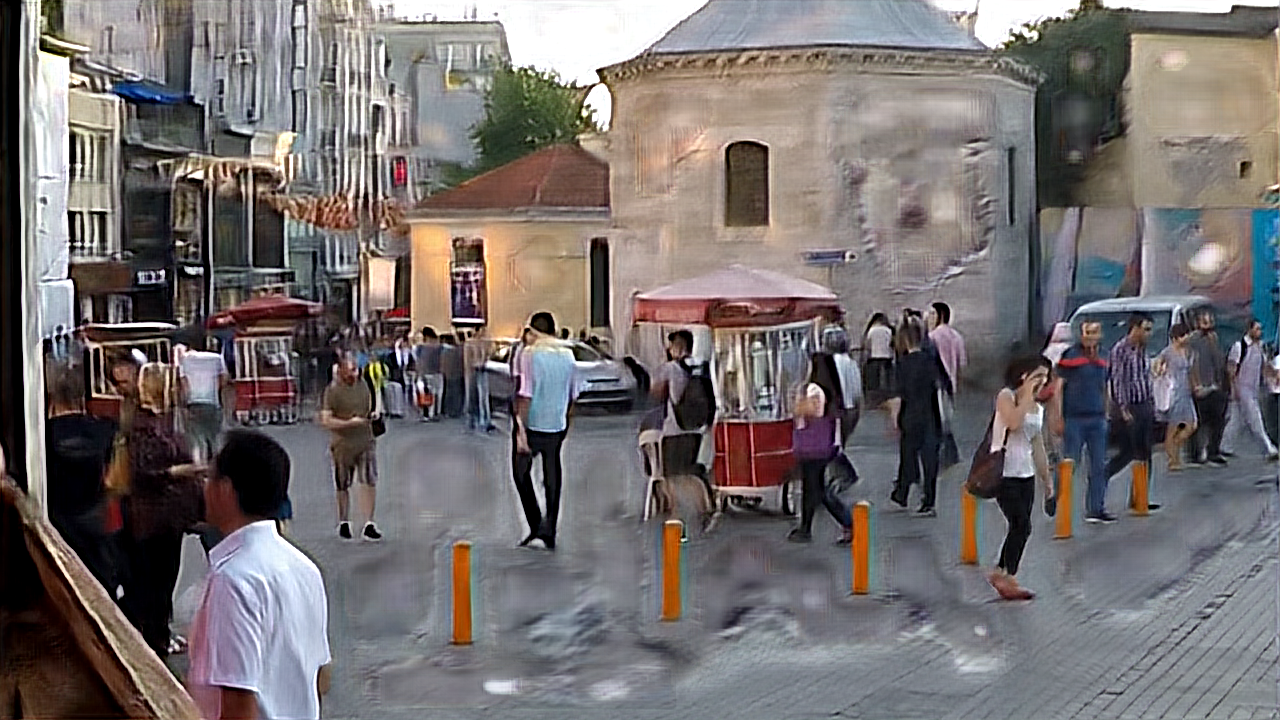
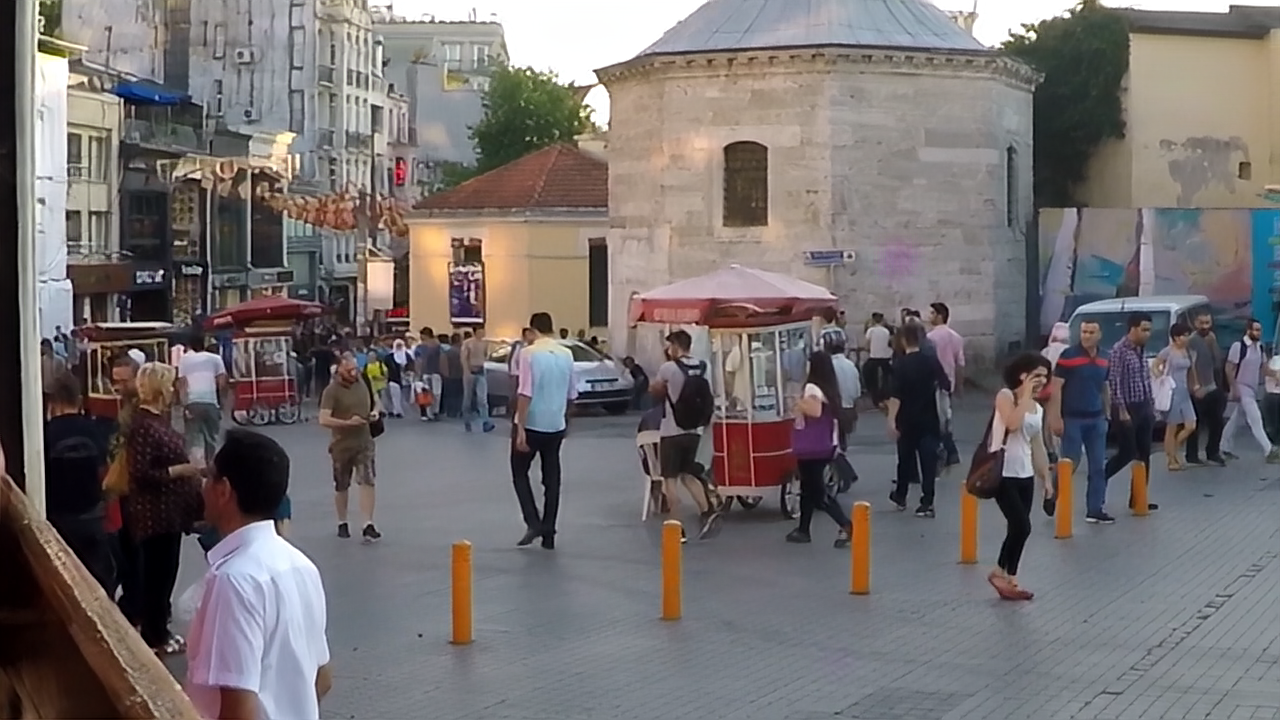
resolve BatchNorm2d train mode  export error for image generation

diff --git a/Debluring/DeblurGANv2/DeblurGANv2-master/torch2onnx.py b/Debluring/DeblurGANv2/DeblurGANv2-master/torch2onnx.py
@@ -18,12 +18,29 @@ from fire import Fire
 class InstanceNormAlternative(nn.Module):
     def __init__(self):
         super().__init__()
-        self.eps=1e-6
+        self.eps=1e-5
 
     def forward(self, inp: torch.Tensor) -> torch.Tensor:
         assert (len(inp.shape)==4), "InstanceNorm Shape Error!"
         desc = 1 / (inp.var(axis=[2, 3], keepdim=True, unbiased=False) + self.eps) ** 0.5
         retval = (inp - inp.mean(axis=[2, 3], keepdim=True)) * desc
+        return retval
+    
+class BatchNormAlternative(nn.Module):
+    def __init__(self, m: nn.BatchNorm2d):
+        super().__init__()
+        self.eps=1e-5
+        self.affine = m.affine
+        if self.affine:
+            self.gamma = m.weight.reshape(1,-1,1,1).clone()
+            self.beta = m.bias.reshape(1,-1,1,1).clone()
+
+    def forward(self, inp: torch.Tensor) -> torch.Tensor:
+        assert (len(inp.shape)==4), "BatchNorm Shape Error!"
+        desc = 1 / (inp.var(axis=[0, 2, 3], keepdim=True, unbiased=False) + self.eps) ** 0.5
+        retval = (inp - inp.mean(axis=[0, 2, 3], keepdim=True)) * desc
+        if self.affine:
+            retval = retval*self.gamma + self.beta
         return retval
     
 class Predictor:
@@ -55,6 +72,17 @@ class Predictor:
         for *parent, id in replace_list:
             model_g.get_submodule('.'.join(parent))[int(id)] = InstanceNormAlternative()
 
+        replace_list =[k.split('.') 
+                        for k, m in model_g.named_modules(remove_duplicate=False) 
+                        if isinstance(m, torch.nn.BatchNorm2d)]
+        for *parent, id in replace_list:
+            if not isinstance(getattr(model_g.get_submodule('.'.join(parent)), id), torch.nn.BatchNorm2d):
+                continue
+            if id.isdecimal():
+                model_g.get_submodule('.'.join(parent))[int(id)] = BatchNormAlternative(model_g.get_submodule('.'.join(parent))[int(id)])
+            else:
+                setattr(model_g.get_submodule('.'.join(parent)), id, BatchNormAlternative(getattr(model_g.get_submodule('.'.join(parent)), id)))
+
         model = model_g
         if torch.cuda.is_available():
             # model.load_state_dict(torch.load(weights_path)['model'])
@@ -63,7 +91,8 @@ class Predictor:
             # model.load_state_dict(torch.load(weights_path,map_location=torch.device('cpu'))['model'])
             self.model = model.cpu()
 
-        self.model.train(True)
+        # self.model.train(True)
+        self.model.train(False)
         # GAN inference should be in train mode to use actual stats in norm layers,
         # it's not a bug
         self.normalize_fn = get_normalize()
@@ -180,6 +209,16 @@ if __name__ == "__main__":
     img_dir = './test_img'
     weights_path = 'fpn_inception.h5'
     
+    # result verification
+    # side_by_side = False
+    # predictor = Predictor(weights_path=weights_path)
+    # img = cv2.cvtColor(cv2.imread(os.path.join(img_dir, "000027.png")), cv2.COLOR_BGR2RGB)
+    # pred = predictor(img, None)
+    # if side_by_side:
+    #     pred = np.hstack((img, pred))
+    # pred = cv2.cvtColor(pred, cv2.COLOR_RGB2BGR)
+    # cv2.imwrite(os.path.join(".", "test.png"), pred)
+
     # Generate model
     with open('config/config.yaml',encoding='utf-8') as cfg:
         config = yaml.load(cfg,Loader=yaml.FullLoader)
@@ -200,11 +239,22 @@ if __name__ == "__main__":
             new_state_dict[k] = v
         model_g.load_state_dict(new_state_dict)
     
-    replace_ins_list =[k.split('.') 
+    replace_list =[k.split('.') 
                     for k, m in model_g.named_modules(remove_duplicate=False) 
                     if isinstance(m, torch.nn.InstanceNorm2d)]
-    for *parent, id in replace_ins_list:
+    for *parent, id in replace_list:
         model_g.get_submodule('.'.join(parent))[int(id)] = InstanceNormAlternative()
+
+    replace_list =[k.split('.') 
+                    for k, m in model_g.named_modules(remove_duplicate=False) 
+                    if isinstance(m, torch.nn.BatchNorm2d)]
+    for *parent, id in replace_list:
+        if not isinstance(getattr(model_g.get_submodule('.'.join(parent)), id), torch.nn.BatchNorm2d):
+            continue
+        if id.isdecimal():
+            model_g.get_submodule('.'.join(parent))[int(id)] = BatchNormAlternative(model_g.get_submodule('.'.join(parent))[int(id)])
+        else:
+            setattr(model_g.get_submodule('.'.join(parent)), id, BatchNormAlternative(getattr(model_g.get_submodule('.'.join(parent)), id)))
 
     with torch.no_grad():
         example_input = (torch.randn((1,3,736,1312)),)   
@@ -212,8 +262,20 @@ if __name__ == "__main__":
             model_g,
             example_input,
             "FPNInception_736_1312.onnx",
+            export_params = True,
             # dynamo=True,
             opset_version=15,
             # autograd_inlining=False,
-            # dynamic_axes=None,
+            dynamic_axes=None,
         )
+
+
+    # unit test
+    # m = nn.InstanceNorm2d(1,track_running_stats=True)
+    # inp = torch.tensor([1.,2.,3.,4.]).reshape(1,1,2,2)
+    # m.running_mean = torch.tensor([2.])
+    # m.running_var = torch.tensor([1.])
+    # om = InstanceNormAlternative(m)
+    # m.train(True)
+    # print(m(inp), m.running_mean, m.running_var)
+    # print(om(inp), om.running_mean, om.running_var)
